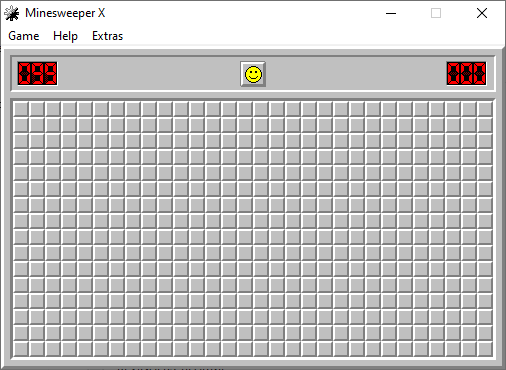
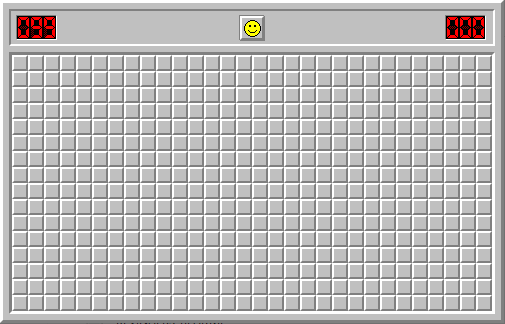
more

diff --git a/index.html b/index.html
@@ -4,6 +4,7 @@
     <style type="text/css">
         canvas {
             border: 1px black solid;
+            background-image: url("minesweeper-expert.png");
         }
 
         #config {
@@ -120,6 +121,8 @@
         let mine_count;
         const doing_small_test = true;
         let flags_placed;
+        let time_started;
+        let time_stopped;
 
         function reset() {
             if (doing_small_test) {
@@ -140,6 +143,8 @@
             losing_mines = [];
             won = false;
             flags_placed = 0;
+            time_started = null; // Unset.
+            time_stopped = null; // Unset.
         }
 
         obj.start = function () {
@@ -223,8 +228,10 @@
                         let res = cell_chord(mouse_cell);
                         if (!res.ok) {
                             losing_mines = res.losing_mines;
+                            time_stopped = Date.now();
                         } else if (grid_state(grid) == kGridStateWon) {
                             won = true;
+                            time_stopped = Date.now();
                             // Flag any unflagged mines so the remaining mine count is correct.
                             for (let i = 0; i < grid.length; i++) {
                                 for (let j = 0; j < grid[i].length; j++) {
@@ -244,11 +251,16 @@
                             grid_set_mines(grid, mouse_coords.i, mouse_coords.j, mine_count);
                             mines_placed = true;
                         }
+                        if (!time_started) {
+                            time_started = Date.now();
+                        }
                         let ok = cell_reveal(mouse_cell);
                         if (!ok) {
                             losing_mines = [mouse_cell];
+                            time_stopped = Date.now();
                         } else if (grid_state(grid) == kGridStateWon) {
                             won = true;
+                            time_stopped = Date.now();
                             // Flag any unflagged mines so the remaining mine count is correct.
                             for (let i = 0; i < grid.length; i++) {
                                 for (let j = 0; j < grid[i].length; j++) {
@@ -270,6 +282,7 @@
                         let res = cell_chord(mouse_cell);
                         if (!res.ok) {
                             losing_mines = res.losing_mines;
+                            time_stopped = Date.now();
                         } else if (grid_state(grid) == kGridStateWon) {
                             won = true;
                         }
@@ -401,6 +414,39 @@
                 }
                 for (let i = 0; i < digits.length; i++) {
                     ctx.drawImage(sprite_map[digits[i]], 17 + i * 13, 16);
+                }
+            }
+
+            // Render clock.
+            {
+                let seconds = 0;
+                if (time_started) {
+                    let diff_ms;
+                    if (time_stopped) {
+                        diff_ms = time_stopped - time_started;
+                    } else {
+                        diff_ms = Date.now() - time_started;
+                    }
+                    seconds = Math.floor(diff_ms / 1000);
+                }
+                if (seconds > 999) {
+                    seconds = 999;
+                }
+
+                let digits = ["d0", "d0", "d0"];
+                if (seconds > 0) {
+                    digits[2] = "d" + (seconds % 10);
+                    seconds = Math.floor(seconds / 10);
+                }
+                if (seconds > 0) {
+                    digits[1] = "d" + (seconds % 10);
+                    seconds = Math.floor(seconds / 10);
+                }
+                if (seconds[0] != "ddash" && seconds > 0) {
+                    seconds[0] = "d" + (seconds % 10);
+                }
+                for (let i = 0; i < digits.length; i++) {
+                    ctx.drawImage(sprite_map[digits[i]], 446 + i * 13, 16);
                 }
             }
         }
